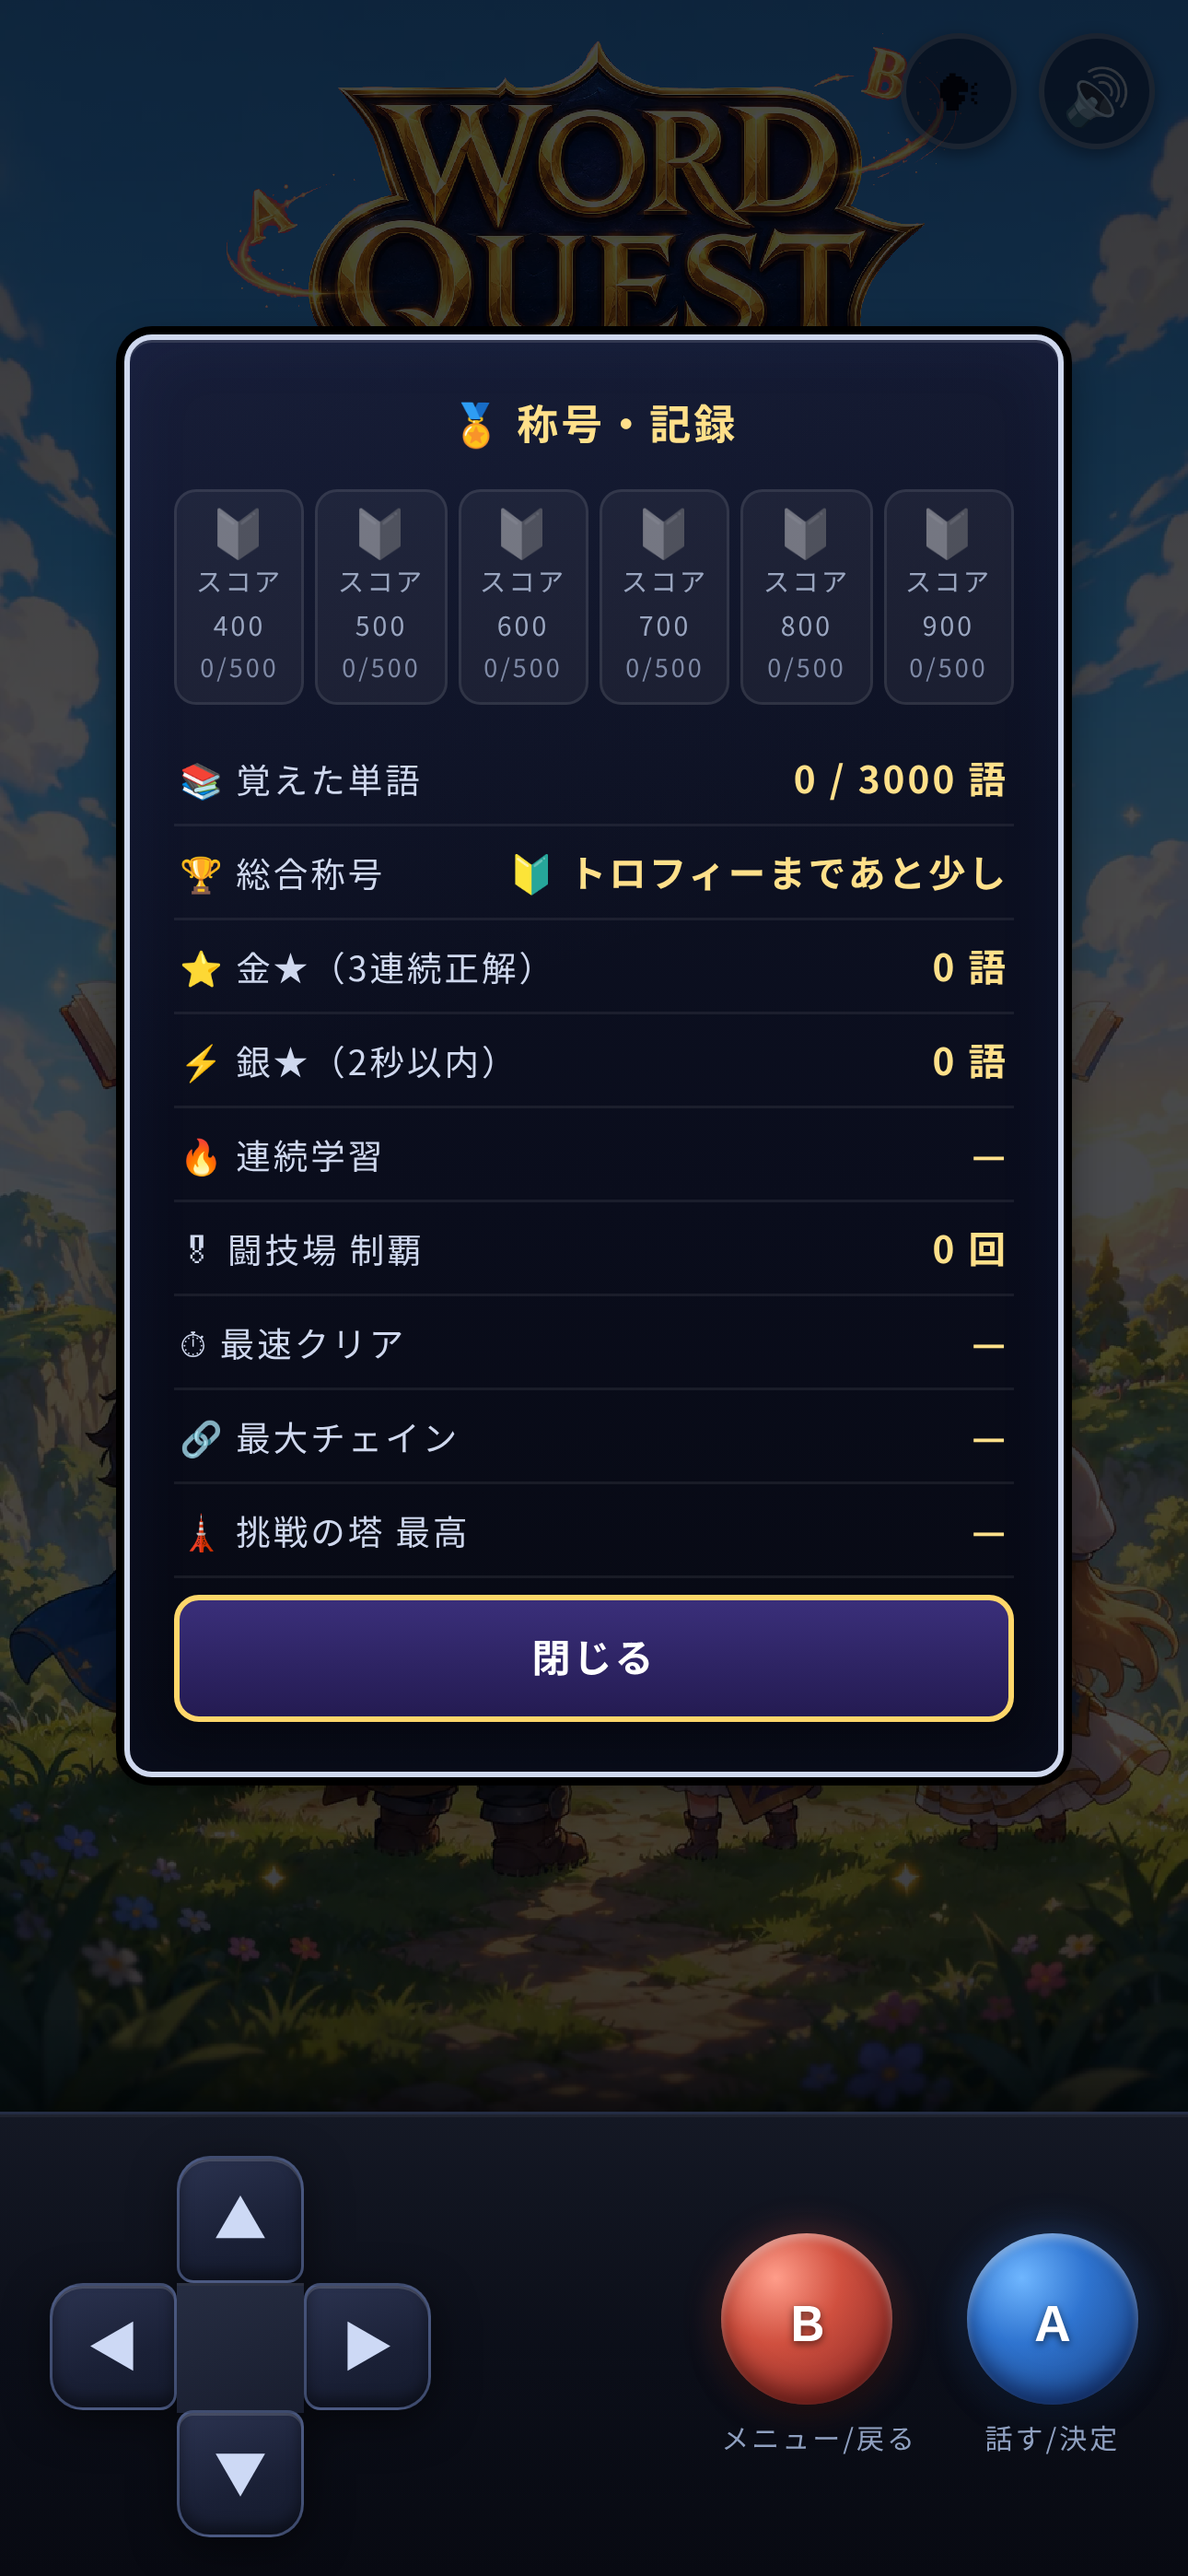
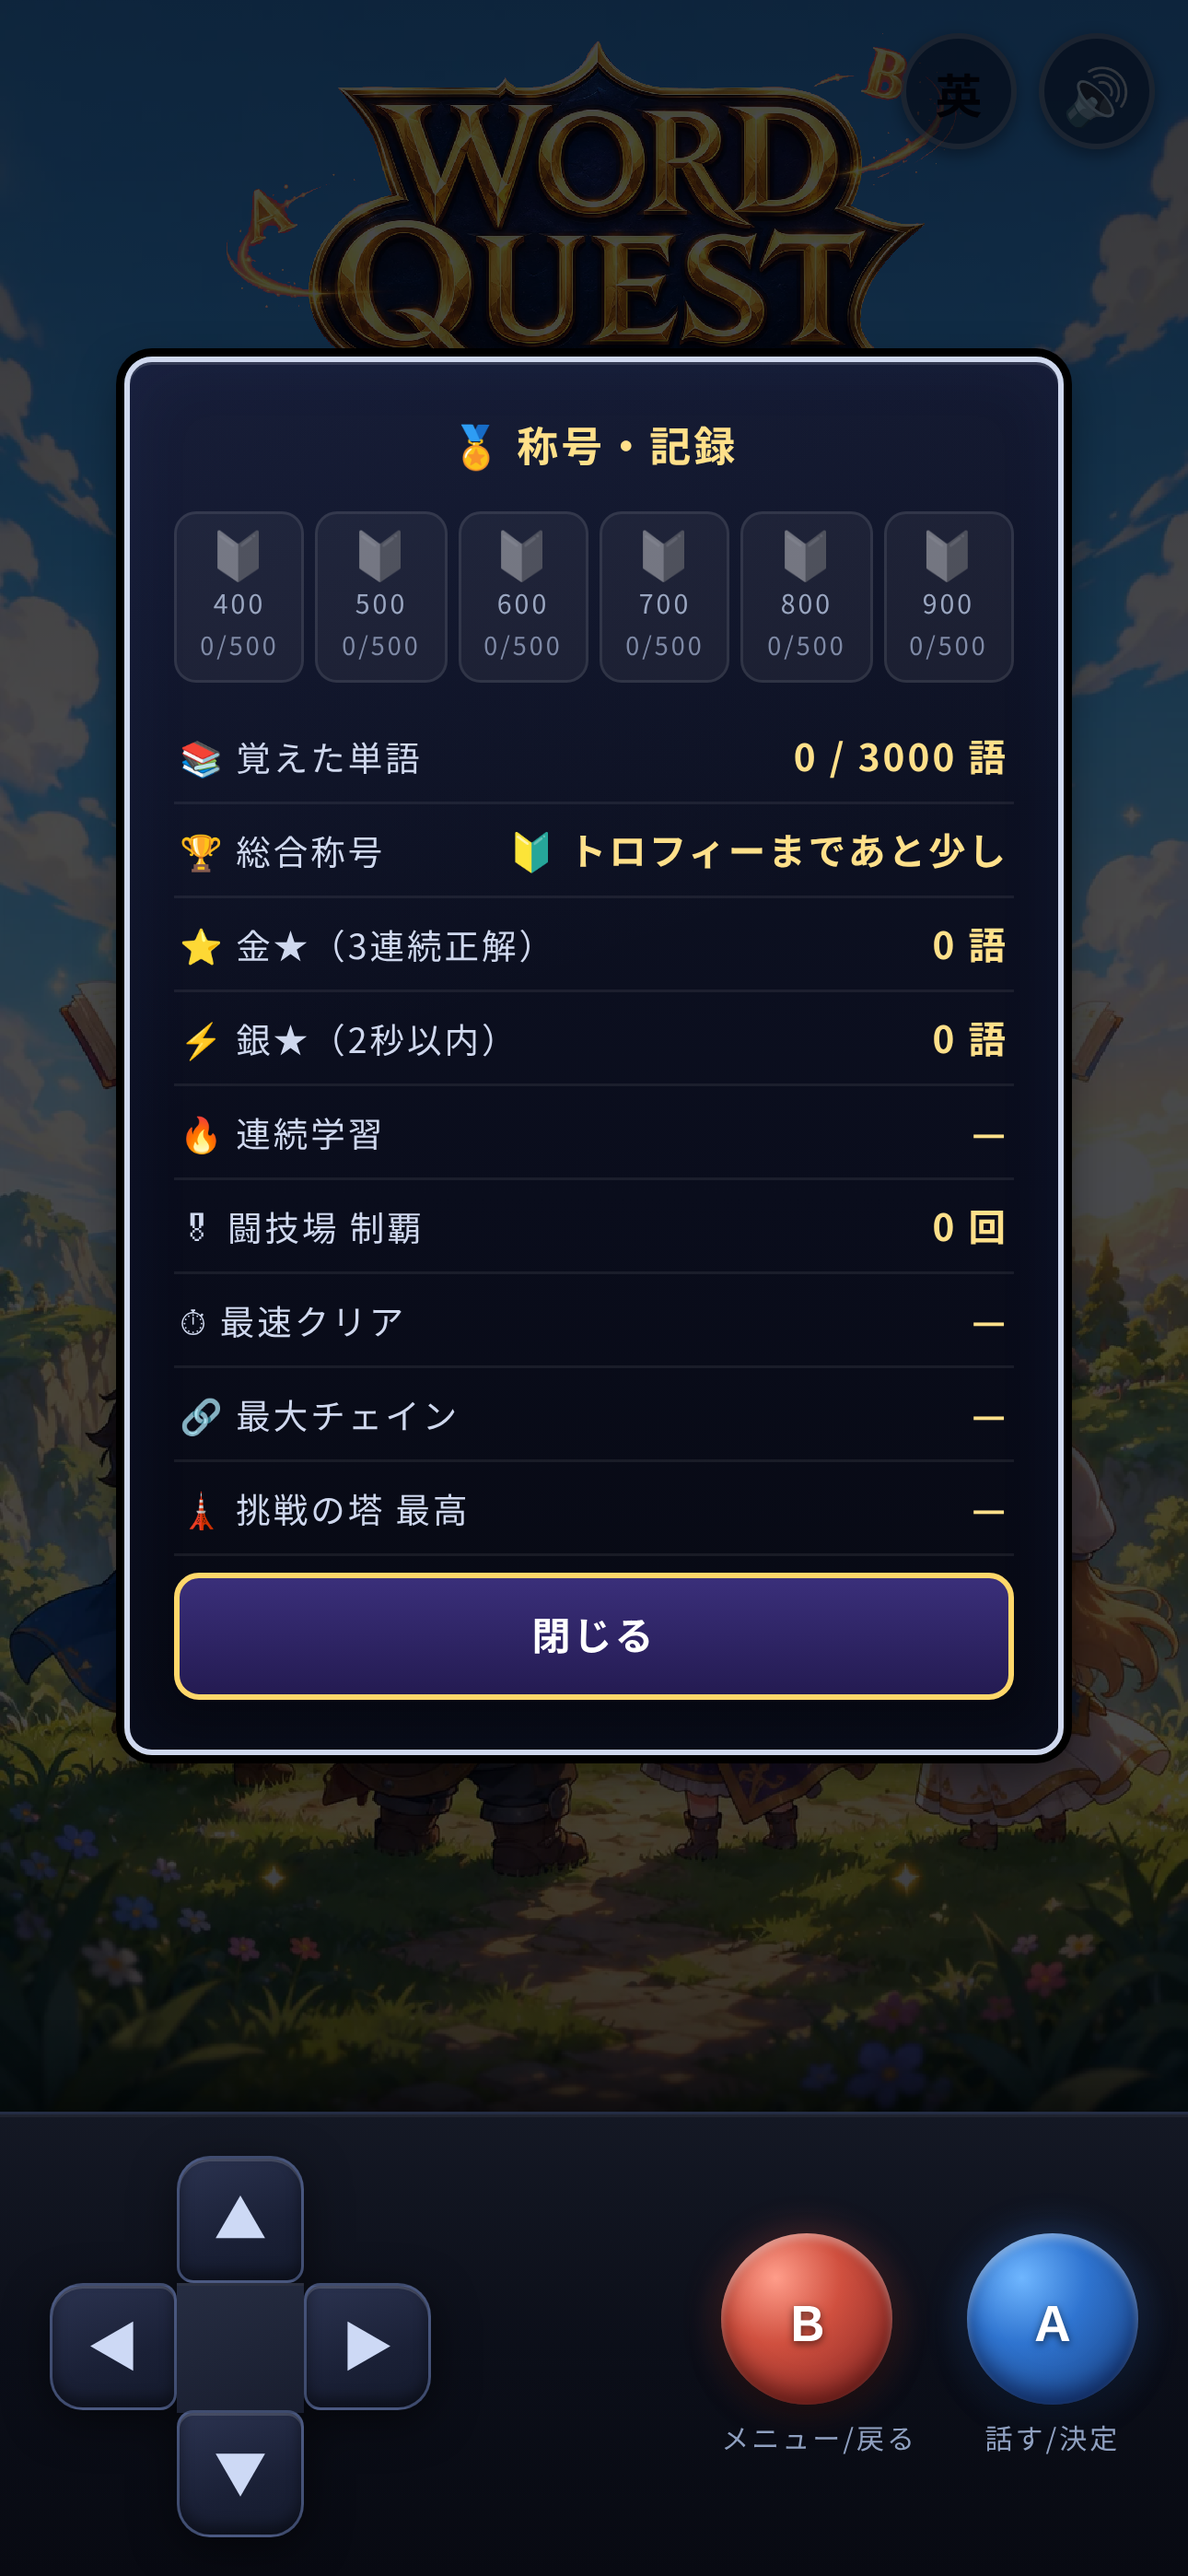
表記とスクリーンショットの手直し
- 音声トグルを 🗣 から「英」に。絵文字は端末によって表示できず、
  実際に撮影環境で黒い塊になっていた。「英」なら必ず出て意味も直に伝わる
- ストア用スクリーンショットに「広告（デモ）」の枠が写り込んでいたので、
  撮影時はバナーを消すようにした
- タイトルの絵が「タップしてスタート」の状態だったので、
  実際にタップしてメニューが出た状態で撮り直した

Claude-Session: https://claude.ai/code/session_01FnVhb4STeLenZzKBowdTQv

diff --git a/party/party.css b/party/party.css
@@ -551,5 +551,6 @@
 #quiz-result { font-family: "WQ Display", system-ui, sans-serif; font-weight: 300; letter-spacing: .12em; }
 #quiz-result.ok { color: #9fe9ff; text-shadow: 0 0 24px rgba(90,220,255,.75); }
 #quiz-result.ng { color: #ff8a9c; }
-/* 音声トグル。BGMボタンの左隣に置く */
-#pbtn-voice { right: 62px; font-size: 18px; }
+/* 音声トグル。BGMボタンの左隣。絵文字だと端末によって出ないことがあるので、
+   必ず表示できて意味も直に伝わる「英」を使う */
+#pbtn-voice { right: 62px; font-size: 17px; font-weight: bold; letter-spacing: 0; }

diff --git a/party/index.html b/party/index.html
@@ -83,7 +83,7 @@
           <button id="pbtn-unlock" class="title-btn ghost">★ プレミアム（月額¥500・広告オフ）</button>
           <div id="ptitle-foot"><span id="pbtn-field">※ ストーリーモードは 制作中です</span></div>
         </div>
-        <div id="pbtn-voice" class="title-corner" title="えいごの おんせい">🗣</div>
+        <div id="pbtn-voice" class="title-corner" title="えいごの おんせい">英</div>
         <div id="pbtn-bgm" class="title-corner" title="BGM">🔊</div>
       </div>
     </div>
